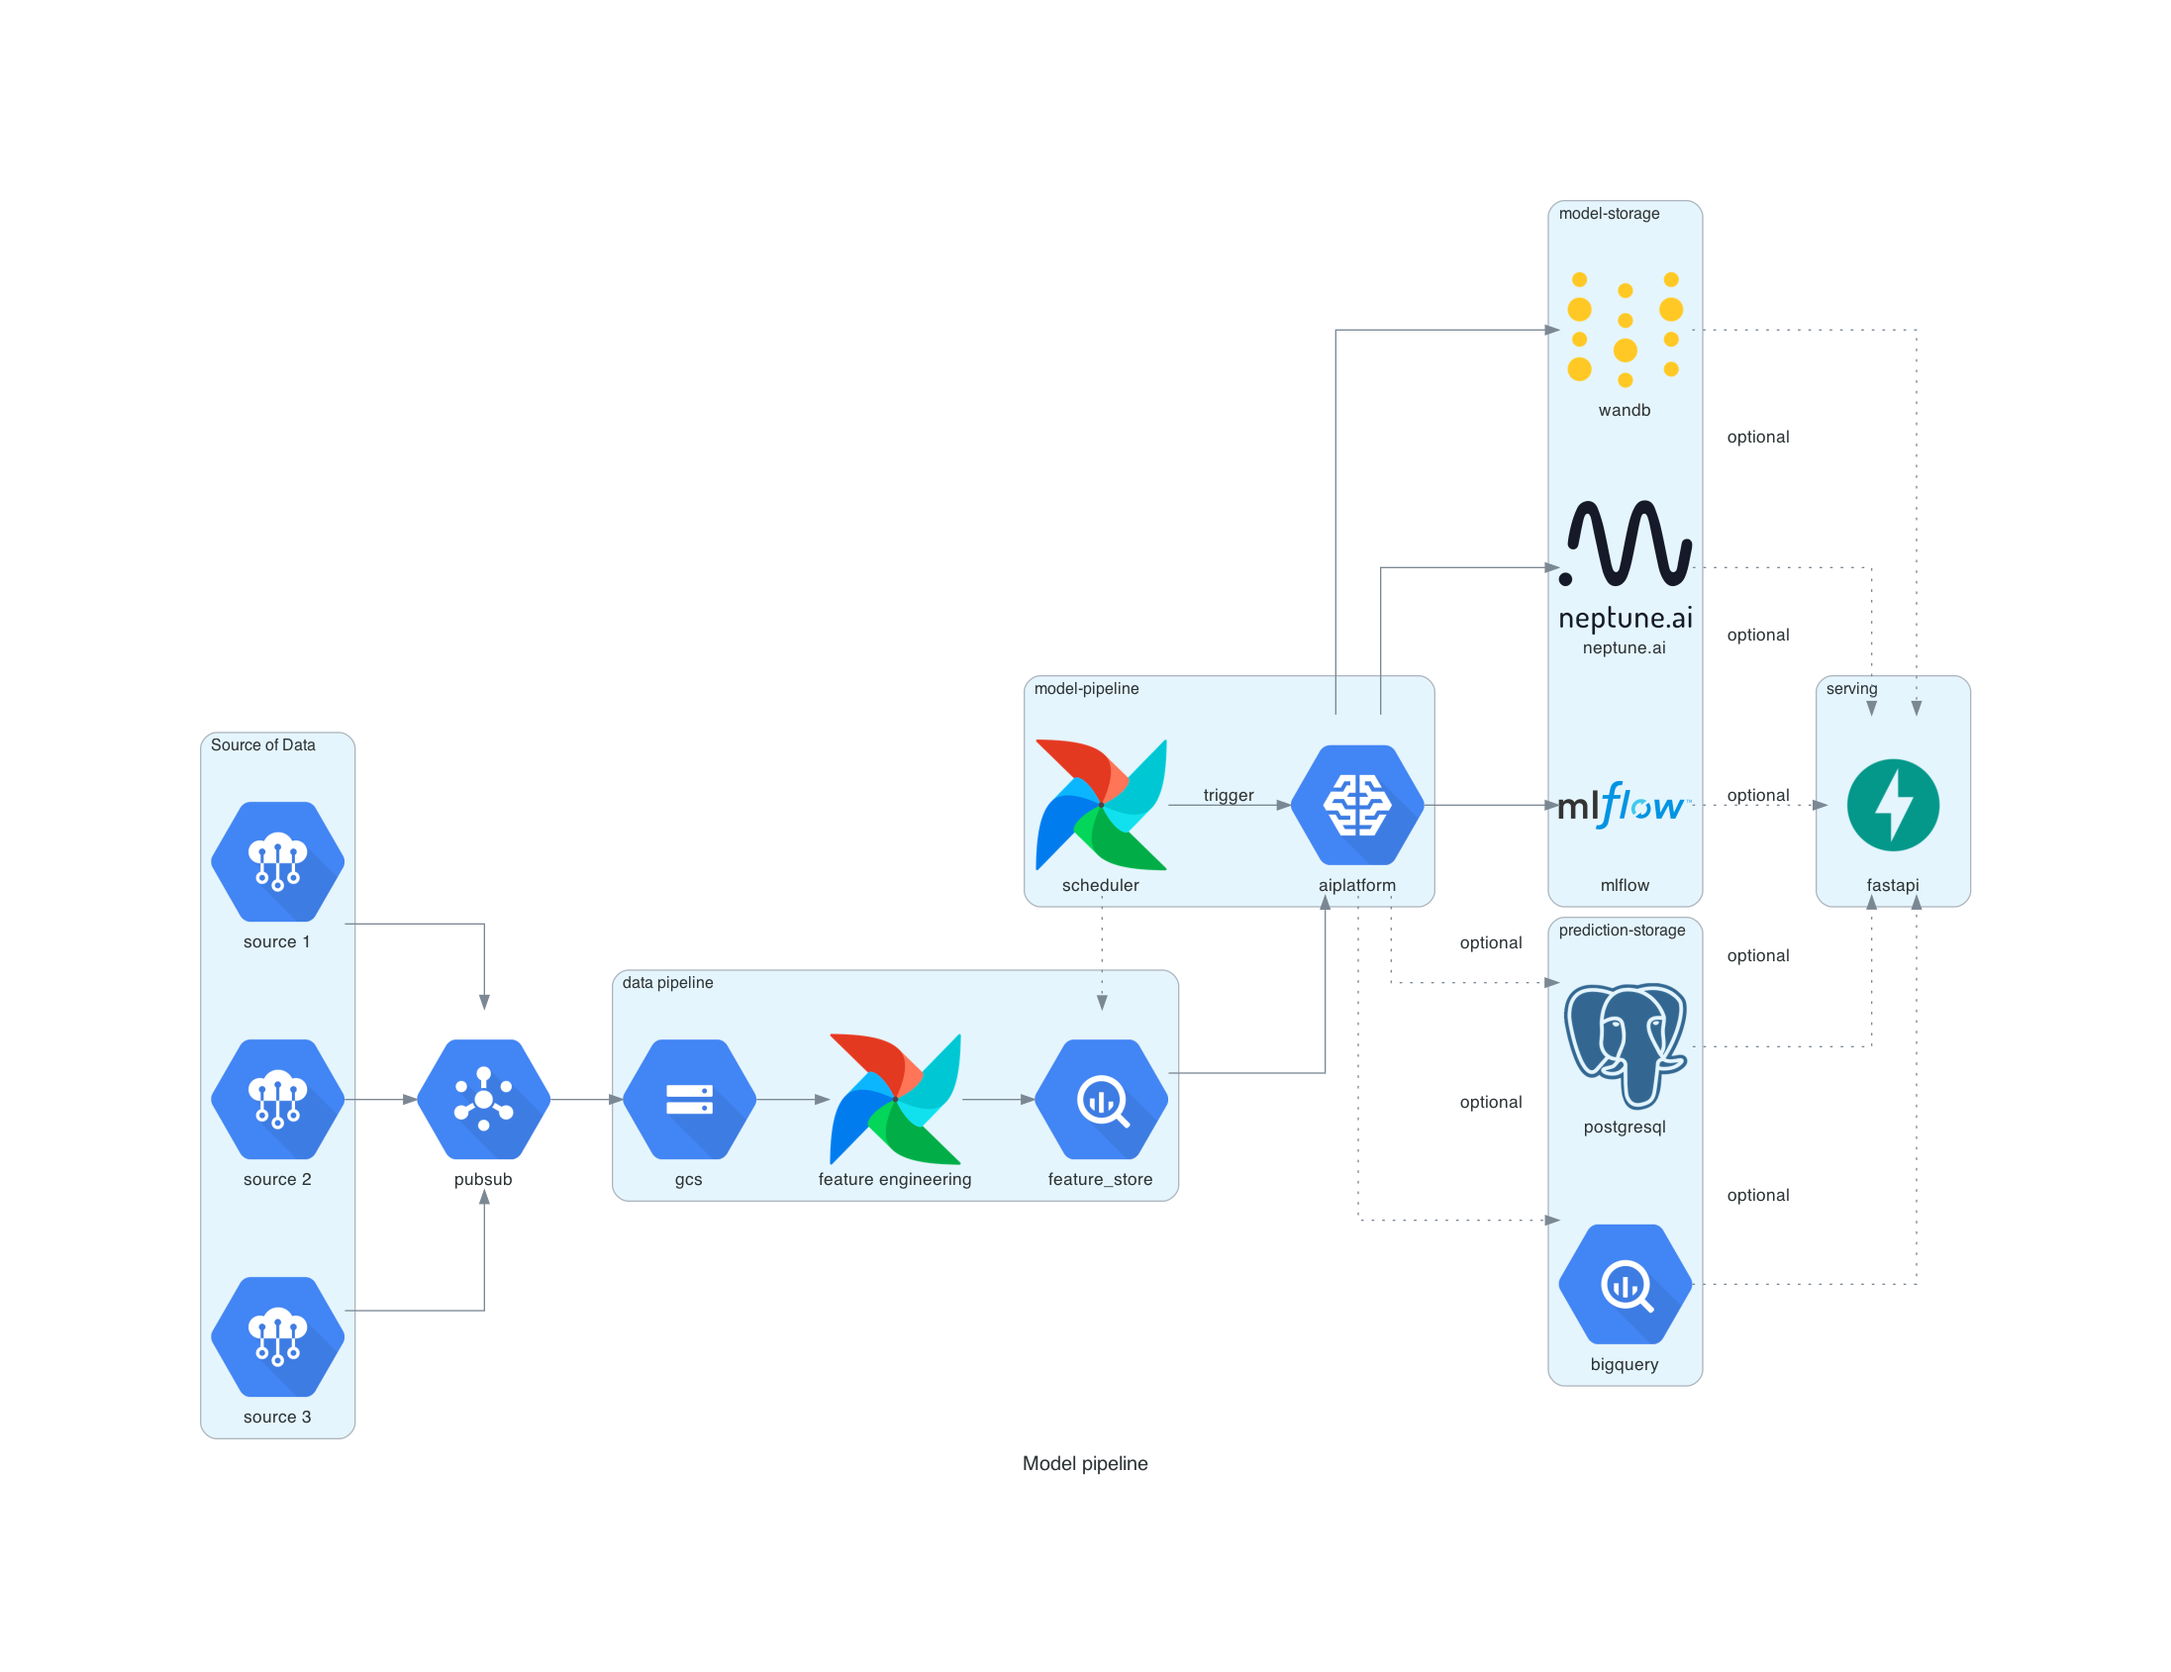
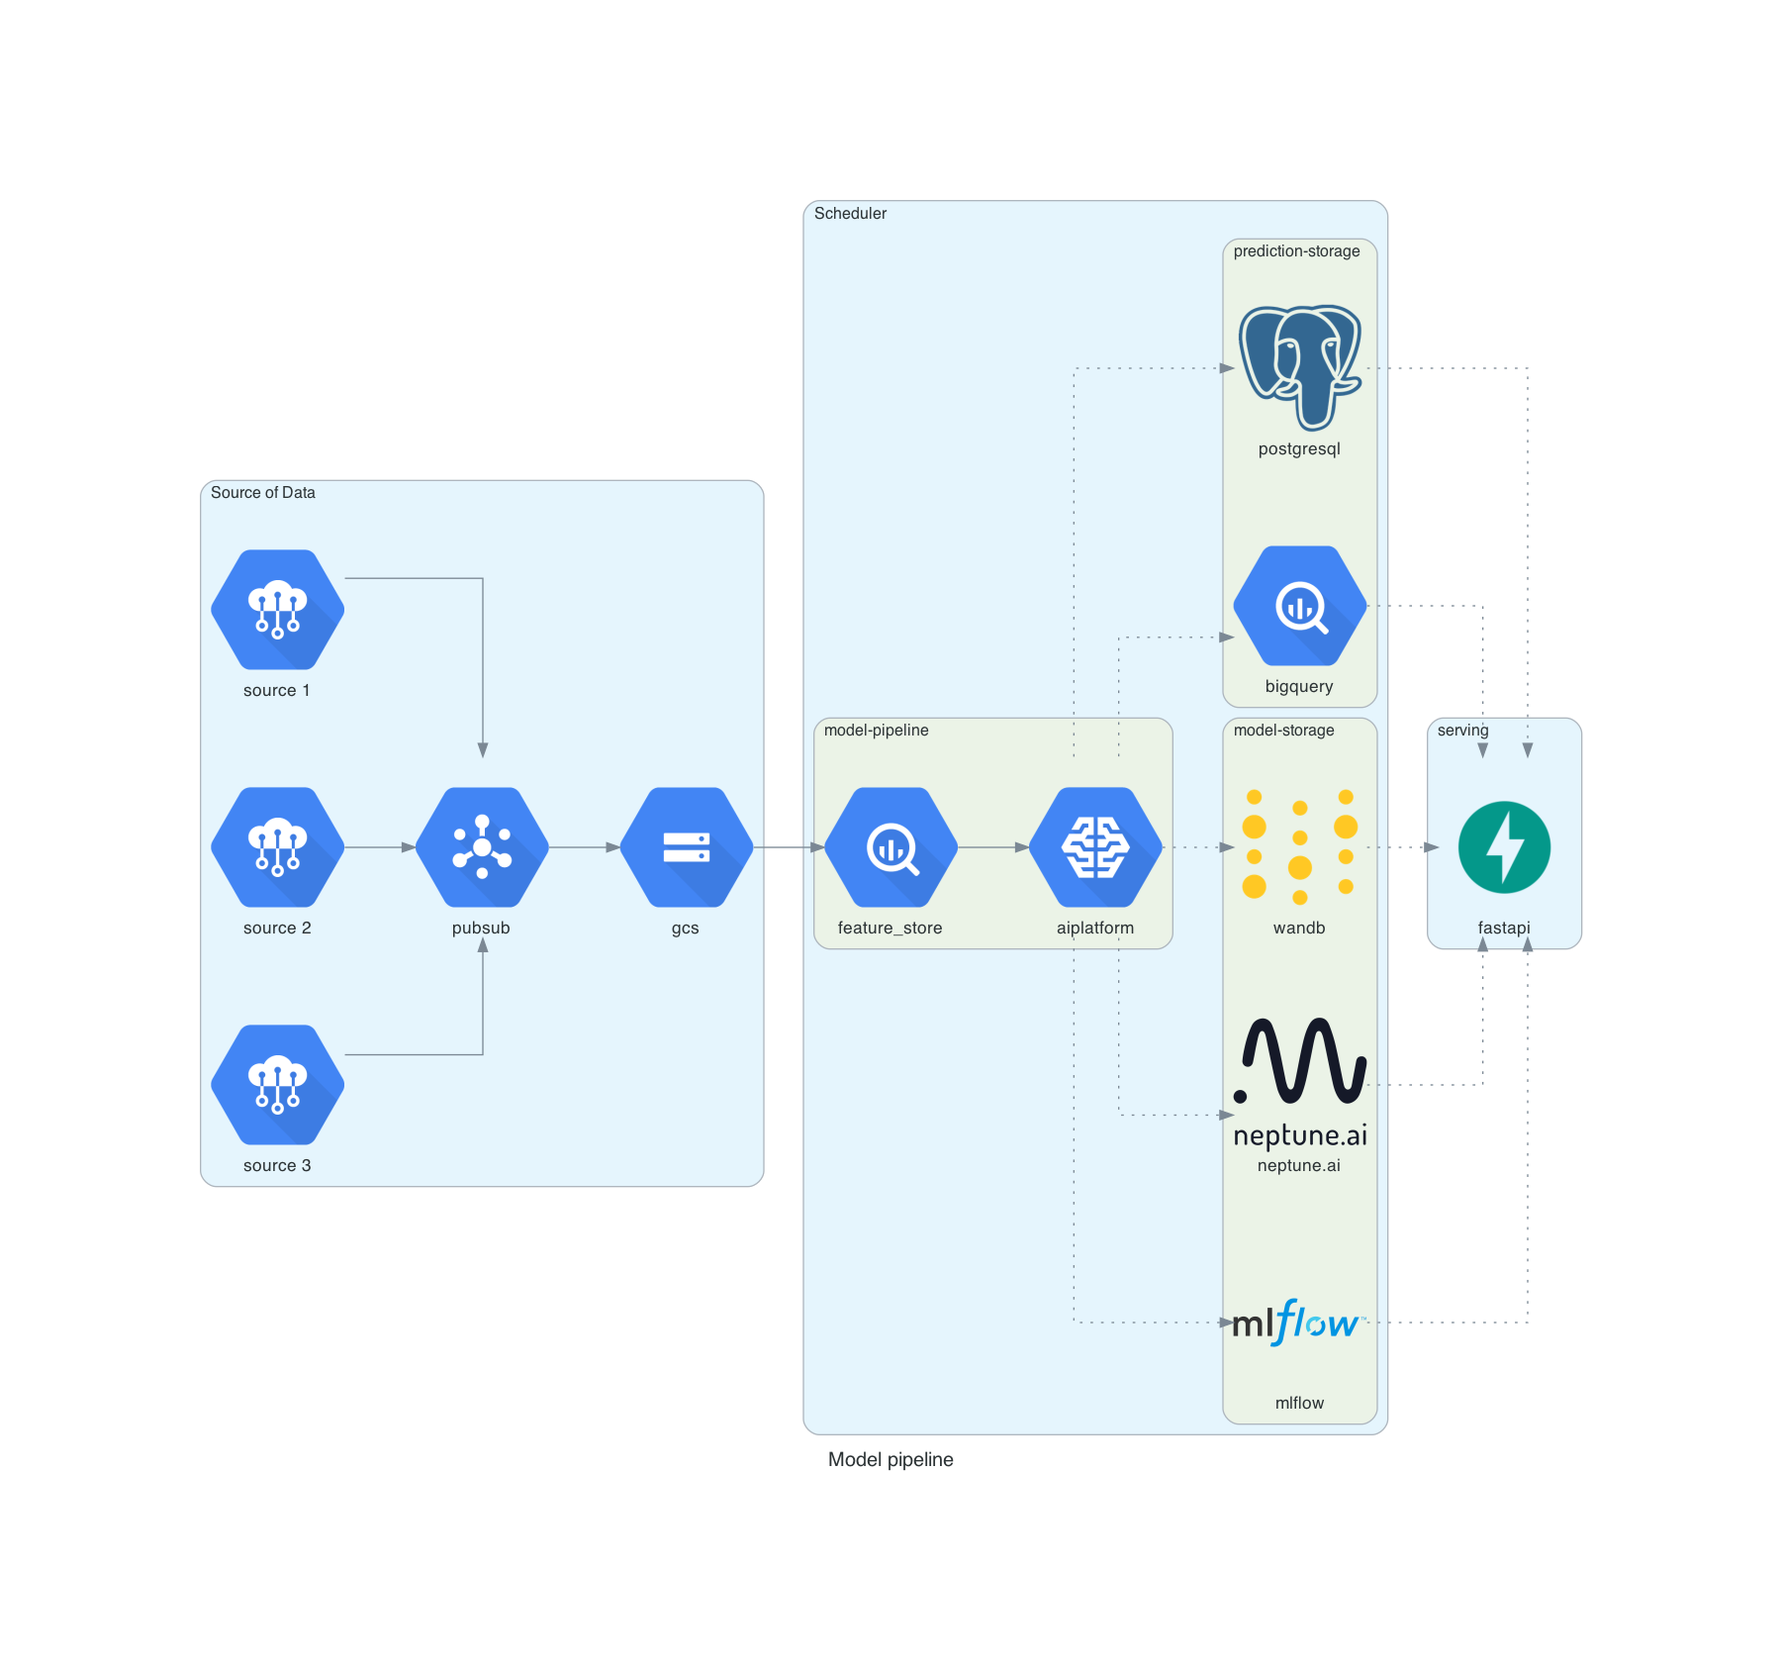
feat - simplify pipeline

diff --git a/diagrams/model_pipeline.py b/diagrams/model_pipeline.py
@@ -10,44 +10,39 @@ from diagrams.programming.framework import Fastapi
 
 
 with Diagram("Model pipeline", filename="./images/model_pipeline"):
-    pubsub = Pubsub("pubsub")
     with Cluster("Source of Data"):
         source = [
             IotCore("source 1"),
             IotCore("source 2"),
             IotCore("source 3"),
         ]
-
-    with Cluster("data pipeline"):
+        pubsub = Pubsub("pubsub")
         gcs = Storage("gcs")
-        feature_engineering_task = Airflow("feature engineering")
-        feature_store = Bigquery("feature_store")
 
-    with Cluster("model-pipeline"):
-        scheduler = Airflow("scheduler")
-        aiplatform = AIPlatform("aiplatform")
+    with Cluster("Scheduler"):
+        with Cluster("model-pipeline"):
+            feature_store = Bigquery("feature_store")
+            aiplatform = AIPlatform("aiplatform")
 
-    with Cluster("model-storage"):
-        wandb = Custom("wandb", "../assets/wandb.png")
-        neptune = Custom("neptune.ai", "../assets/neptuneai.png")
-        mlflow = Custom("mlflow", "../assets/mlflow.png")
-        model_storage = [wandb, neptune, mlflow]
+        with Cluster("model-storage"):
+            wandb = Custom("wandb", "../assets/wandb.png")
+            neptune = Custom("neptune.ai", "../assets/neptuneai.png")
+            mlflow = Custom("mlflow", "../assets/mlflow.png")
+            model_storage = [wandb, neptune, mlflow]
 
-    with Cluster("prediction-storage"):
-        postgresql = Postgresql("postgresql")
-        bigquery = Bigquery("bigquery")
-        prediction_storage = [postgresql, bigquery]
+        with Cluster("prediction-storage"):
+            postgresql = Postgresql("postgresql")
+            bigquery = Bigquery("bigquery")
+            prediction_storage = [postgresql, bigquery]
 
     with Cluster("serving"):
         fastapi = Fastapi("fastapi")
 
     source >> pubsub
-    pubsub >> gcs >> feature_engineering_task >> feature_store
-    scheduler >> Edge(label="validate", style="dotted") >> feature_store
-    scheduler >> Edge(label="trigger") >> aiplatform
+    pubsub >> gcs >> feature_store
     feature_store >> aiplatform
-    aiplatform >> Edge(label="optional", style="dotted") >> prediction_storage
-    aiplatform >> model_storage
+    aiplatform >> Edge(style="dotted") >> prediction_storage
+    aiplatform >> Edge(style="dotted") >> model_storage
 
-    prediction_storage >> Edge(label="optional", style="dotted") >> fastapi
-    model_storage >> Edge(label="optional", style="dotted") >> fastapi
+    prediction_storage >> Edge(style="dotted") >> fastapi
+    model_storage >> Edge(style="dotted") >> fastapi
